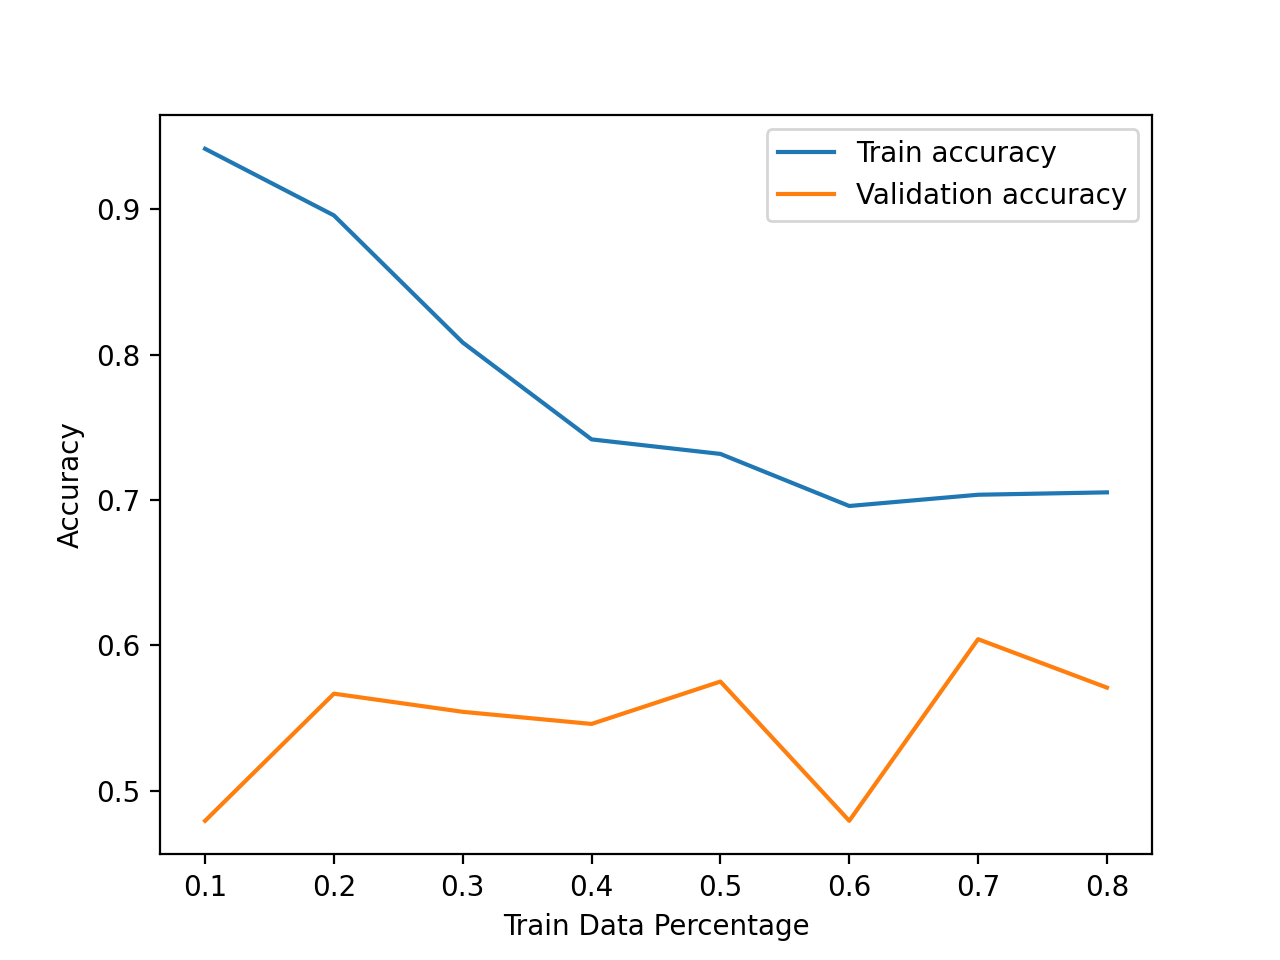
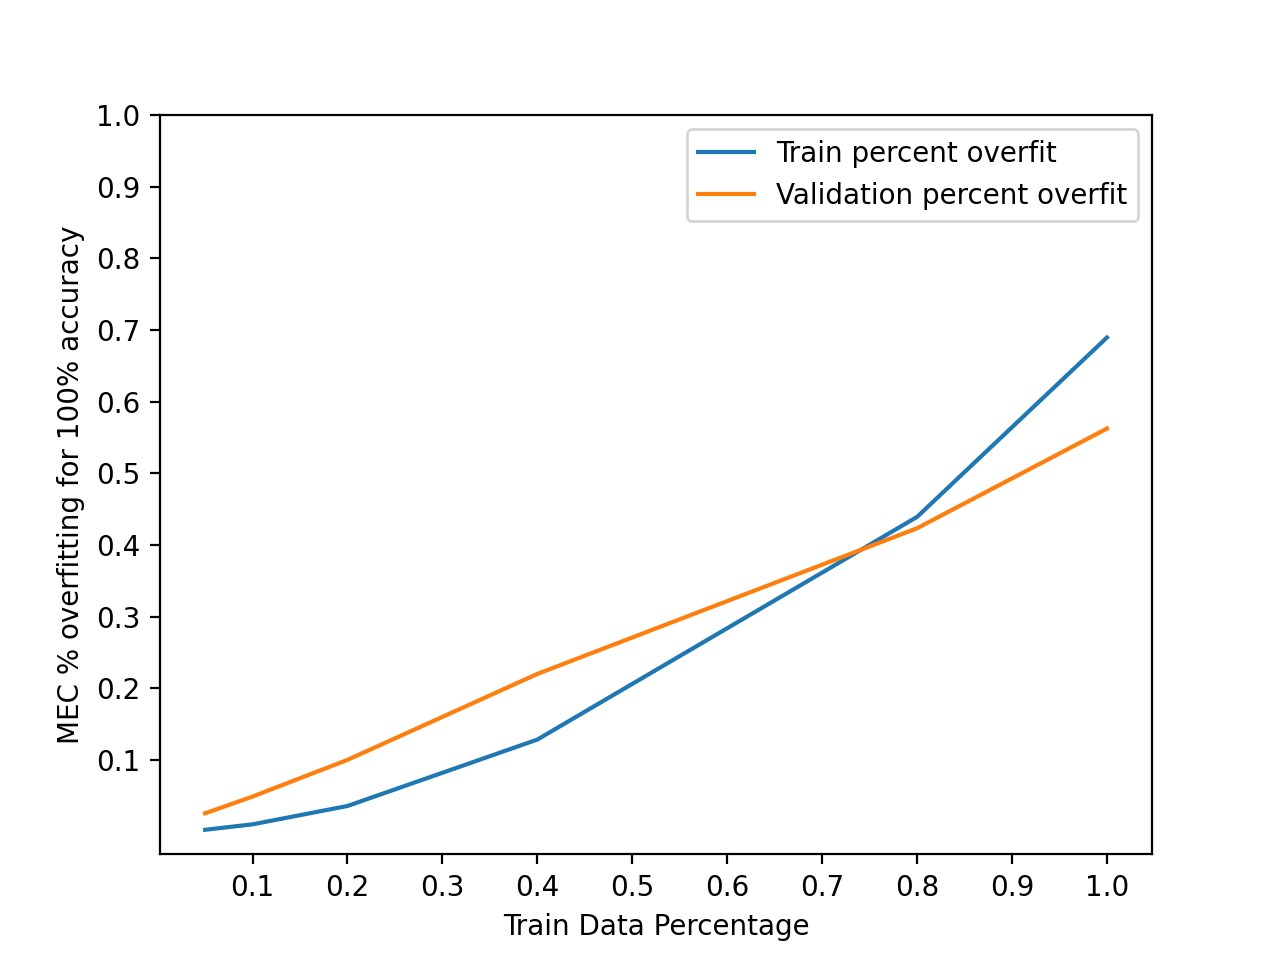
rerun graphs

diff --git a/plot_generalization_curve.py b/plot_generalization_curve.py
@@ -5,6 +5,8 @@ train_loss = []
 val_loss = []
 train_acc = []
 val_acc = []
+train_percent_overfit = []
+val_percent_overfit = []
 
 with open("training_log.txt", "r") as f:
     f.readline()
@@ -16,7 +18,10 @@ with open("training_log.txt", "r") as f:
         val_loss.append(float(split_line[3]))
         val_acc.append(float(split_line[4]))
 
-x_labels = [.1, .2, .3, .4, .5, .6, .7, .8]
+        train_percent_overfit.append(float(split_line[0]) * float(split_line[2]))
+        val_percent_overfit.append(float(split_line[0]) * float(split_line[4]))
+
+x_labels = [.1, .2, .3, .4, .5, .6, .7, .8, .9, 1.0]
 
 plt.figure()
 plt.plot(train_percent, train_loss, label="Train loss")
@@ -28,10 +33,11 @@ plt.legend()
 plt.savefig("gen_loss_curves.png", dpi=200)
 
 plt.figure()
-plt.plot(train_percent, train_acc, label="Train accuracy")
-plt.plot(train_percent, val_acc, label="Validation accuracy")
+plt.plot(train_percent, train_percent_overfit, label="Train percent overfit")
+plt.plot(train_percent, val_percent_overfit, label="Validation percent overfit")
 plt.xlabel("Train Data Percentage")
 plt.xticks(x_labels, x_labels)
-plt.ylabel("Accuracy")
+plt.yticks(x_labels, x_labels)
+plt.ylabel(f"MEC % overfitting for 100% accuracy")
 plt.legend()
 plt.savefig("gen_acc_curves.png", dpi=200)

diff --git a/fcnn_training.py b/fcnn_training.py
@@ -72,13 +72,17 @@ class FCN(nn.Module):
     
 
 
-for train_data_percent in [.1, .2, .3, .4, .5, .6, .7, .8]:
+for train_data_percent in [.05, .1, .2, .4, .8, 1.0]:
 
     # 80/20 train/val split
-    train_size = int(train_data_percent * len(train_set))
+    train_size = int(.8 * len(train_set))
     val_size = int(.2 * len(train_set))
-    unused_size = len(train_set) - train_size - val_size
-    cur_train_set, cur_val_set, _ = random_split(train_set, [train_size, val_size, unused_size])
+    # unused_size = len(train_set) - train_size - val_size
+    cur_train_set, cur_val_set = random_split(train_set, [train_size, val_size])
+
+    used_train_size = int(train_data_percent * len(cur_train_set))
+    unused_train_size = len(cur_train_set) - used_train_size
+    cur_train_set, _ = random_split(cur_train_set, [used_train_size, unused_train_size])
     # Batch size
     batch_size = 16
 
